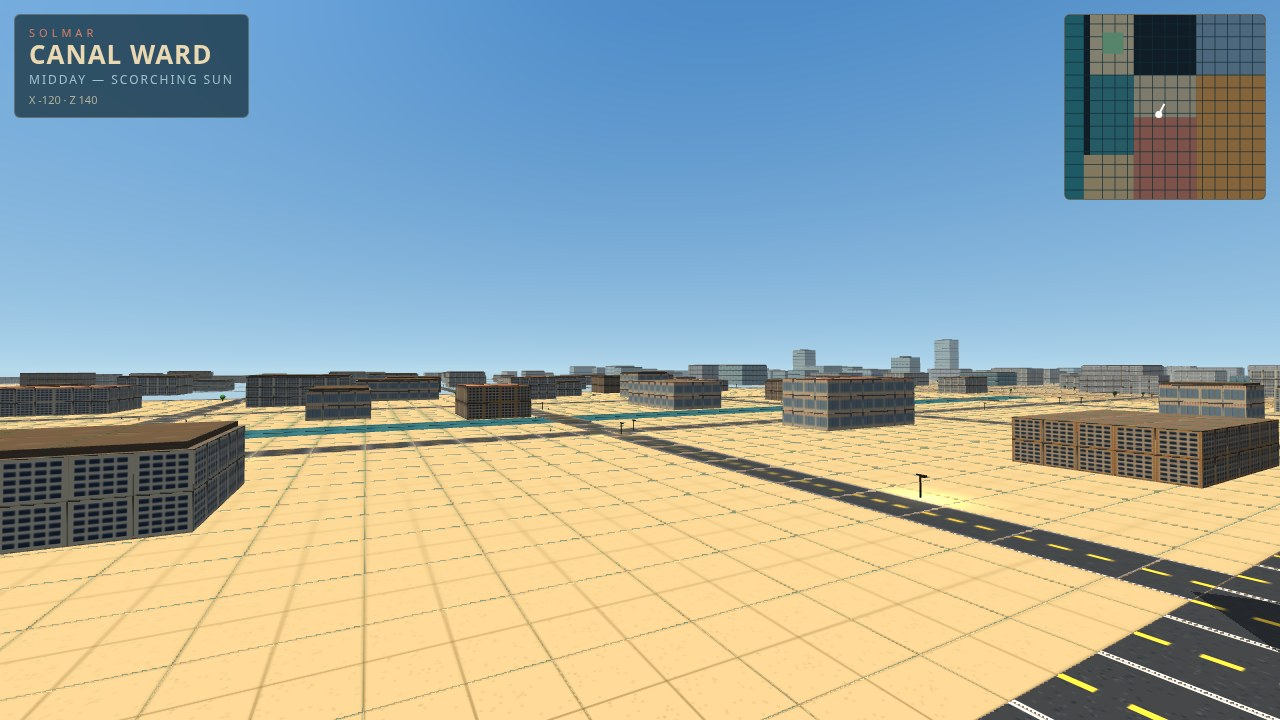
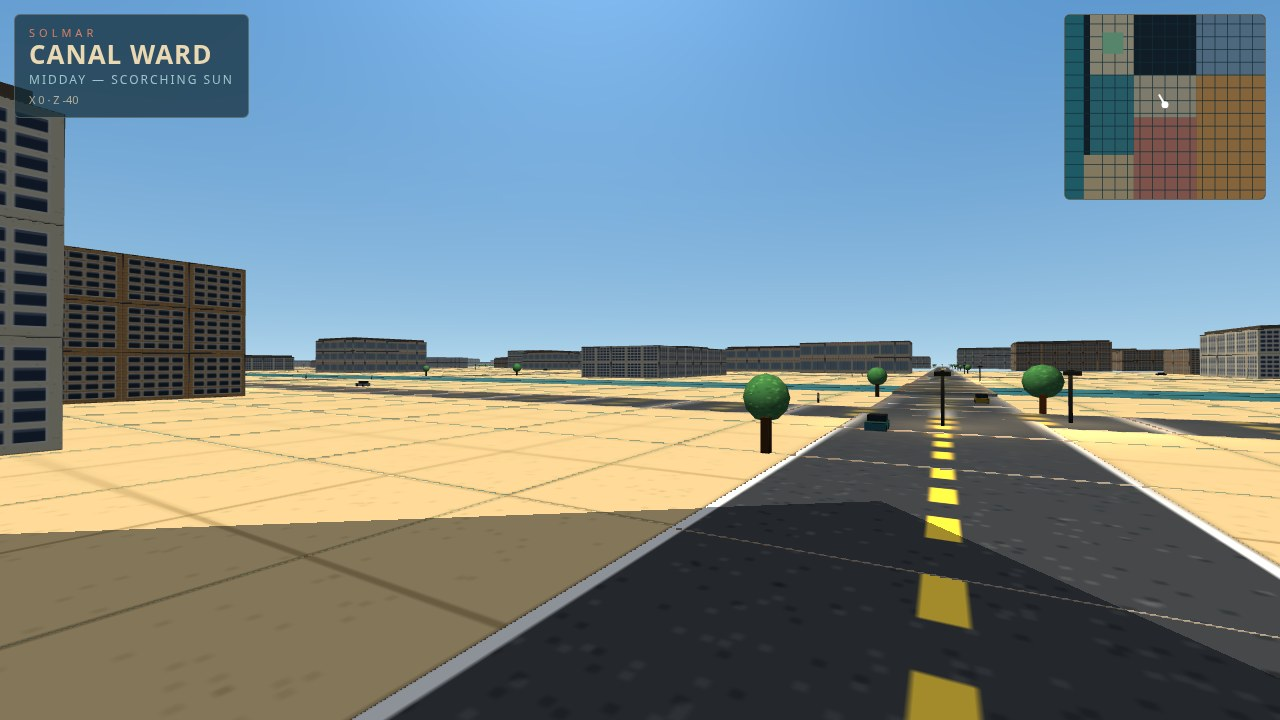
Stage A fix: denser foregrounds, re-staged shots

diff --git a/game/src/city.js b/game/src/city.js
@@ -278,6 +278,56 @@ export function buildCity(seed) {
     parkedCars.push({ x, z, angle: vertical ? 0 : Math.PI / 2, color: rng.pick(CAR_COLORS) });
   }
 
+  // --- Shot dressing (deterministic, no RNG): parked cars, palms, benches
+  // and a lifeguard tower where the three screenshot cameras look, so no
+  // frame is a bare ground plane. Every value below is fixed, so the seeded
+  // layout above is untouched. Props stay clear of building footprints:
+  // the road strip is x -10..10, buildings start at x >= 14 or x <= -14
+  // off it, and nothing is built west of x -1440.
+  function plantTreeFixed(x, z, s) {
+    mesh.addBox(x, 1.4, z, 0.7, 2.8, 0.7, { tile: TILE.wood, color: [0.55, 0.4, 0.25], gloss: 0 });
+    mesh.addSphere(x, 3.6 + s * 0.4, z, s, { color: [0.85, 0.95, 0.85], gloss: 0 });
+    treeCount += 1;
+  }
+  function plantPalm(x, z) {
+    // A tall thin trunk and a flat crown, so the beach reads as palms.
+    mesh.addBox(x, 3.5, z, 0.5, 7, 0.5, { tile: TILE.wood, color: [0.6, 0.48, 0.32], gloss: 0 });
+    mesh.addSphere(x, 7.4, z, 2.4, { color: [0.45, 0.75, 0.4], gloss: 0 });
+    treeCount += 1;
+  }
+  function addBench(x, z) {
+    mesh.addBox(x, 0.5, z, 4, 1, 1.2, { tile: TILE.wood, color: [0.6, 0.45, 0.3], gloss: 0.1 });
+  }
+  // Parked cars on the Canal Ward road the day camera looks down.
+  for (const [x, z, ci] of [[6, 10, 0], [-6, -100, 1], [6, -150, 4], [-6, 30, 2]]) {
+    parkedCars.push({ x, z, angle: 0, color: CAR_COLORS[ci] });
+  }
+  // Parked cars on the harbour road the night camera looks down.
+  for (const [x, z, ci] of [[-1262, 40, 3], [-1262, -60, 5], [-1262, 140, 6]]) {
+    parkedCars.push({ x, z, angle: Math.PI / 2, color: CAR_COLORS[ci] });
+  }
+  // Street trees along the day camera's road, just off the tarmac.
+  for (const [x, z, s] of [[12, -10, 2.2], [-12, -80, 1.9], [12, -130, 2.4], [-12, -160, 2.0]]) {
+    plantTreeFixed(x, z, s);
+  }
+  // Palms on the sand for the sunset camera (kept off the sun's line, so
+  // none of them covers the disc) and along the beach in general.
+  for (const [x, z] of [[-1560, 1180], [-1555, 1200], [-1500, 1000], [-1500, 1300], [-1500, 1600]]) {
+    plantPalm(x, z);
+  }
+  // Benches on the sand, facing the sea.
+  for (const [x, z] of [[-1550, 1160], [-1505, 1000], [-1505, 1300], [-1505, 1550]]) addBench(x, z);
+  // Palms and benches along the marina promenade for the night camera.
+  for (const z of [100, 300]) plantPalm(-1432, z);
+  for (const z of [150, 250, 350, 450]) addBench(-1438, z);
+  // A lifeguard tower on the sand, at the sunset frame's right edge.
+  for (const [lx, lz] of [[-1556, 1129], [-1554, 1129], [-1556, 1131], [-1554, 1131]]) {
+    mesh.addBox(lx, 1.5, lz, 0.4, 3, 0.4, { tile: TILE.wood, color: [0.6, 0.45, 0.3], gloss: 0.1 });
+  }
+  mesh.addBox(-1555, 3.4, 1130, 5, 0.6, 4, { tile: TILE.wood, color: [0.65, 0.5, 0.35], gloss: 0.1 });
+  mesh.addBox(-1555, 4.6, 1130, 4, 1.8, 3, { tile: TILE.whiteWall, color: [0.95, 0.9, 0.8], gloss: 0.2 });
+  mesh.addBox(-1555, 5.8, 1130, 5, 0.4, 4, { tile: TILE.awning, color: [1, 1, 1], gloss: 0.1 });
+
   // --- Pedestrian loops: rectangles around a few blocks.
   const loopBlocks = [
     [-480, -360, -240, -120], [-240, -360, 0, -120], [0, -360, 240, -120],

diff --git a/game/src/shots.js b/game/src/shots.js
@@ -1,23 +1,32 @@
 // The screenshot scenes behind ?shot=day|sunset|night. Each one stages a fixed
 // cinematic camera in the real game — the same world, the same light, no
 // special-case rendering — so the frame is what the game really looks like
-// from that spot, and the same seed always gives the same frame.
+// from that spot, and the same seed always gives the same frame. Every camera
+// sits at street or promenade level, close to the city, so the frame shows
+// buildings, streets, trees, parked cars or people in the foreground — never
+// a bare ground plane filling the frame.
 
 export const SHOTS = {
-  // Low over Canal Ward, looking north-east across the canal to the Glasspoint towers.
+  // Street level on the Canal Ward road, looking north-west down the road
+  // across the canal, brick facades on the left, the bridge and the canal
+  // ahead, parked cars and street trees along the road.
   day: {
     preset: 'day',
-    camera: { pos: [-120, 35, 140], target: [300, 50, -650] },
+    camera: { pos: [0, 7, -40], target: [-200, 10, -380] },
   },
-  // On the beach, looking west-south-west over the sea into the setting sun.
+  // On the beach at Sunstrand, close to the water, looking west-south-west
+  // over the sea into the setting sun, palms and the lifeguard tower at
+  // the frame edges and a bench in the foreground.
   sunset: {
     preset: 'sunset',
-    camera: { pos: [-1500, 12, 400], target: [-2300, 6, 550] },
+    camera: { pos: [-1520, 8, 1150], target: [-2290, 12, 1290] },
   },
-  // On the beach promenade, looking north along the lamps toward the harbour.
+  // On the marina promenade, just south of the harbour, looking north along
+  // the lamps toward the boats and docks, Pearl Marina's lit windows to
+  // the right and the sea to the left.
   night: {
     preset: 'night',
-    camera: { pos: [-1500, 10, 600], target: [-1480, 8, -400] },
+    camera: { pos: [-1440, 6, 300], target: [-1440, 6, -350] },
   },
 };
 

diff --git a/checks/report.md b/checks/report.md
@@ -83,3 +83,57 @@ teal #398e99, ink #142d38, leaf #56856b.
   come in later stages.
 - The title screen is a simple overlay; the full title-screen art is a
   Stage F item.
+
+## Stage A fix pass — denser foregrounds, re-staged shots
+
+The parent viewed the three screenshots and found the cameras looked at
+empty ground: the day camera was high and far, the sunset and night
+cameras stood on bare sand/promenade. This pass fixed only the shot
+staging and the foreground density — no later-stage systems.
+
+- `game/src/shots.js` — all three cameras re-staged to street/promenade
+  level, close to the city. Day: on the Canal Ward road at (0, 7, -40),
+  looking north-west down the road across the canal. Sunset: on the beach
+  at (-1520, 8, 1150), close to the water, looking west-south-west into
+  the sun. Night: on the marina promenade at (-1440, 6, 300), just south
+  of the harbour, looking north along the lamps.
+- `game/src/city.js` — deterministic shot dressing, all fixed values, no
+  RNG calls, added after the parked-car loop so the seeded layout is
+  untouched: 4 parked cars on the day camera's road, 3 on the harbour
+  road, 4 street trees along the day road, 5 palms on the sand (two in
+  the sunset frame's wedge, none on the sun's line), 4 benches on the
+  sand, 2 palms + 4 benches on the marina promenade, and a lifeguard
+  tower at the sunset frame's right edge. Props stay clear of building
+  footprints (road strip x -10..10, buildings from x >= 14, nothing
+  built west of x -1440).
+- Two rounds of re-capture and viewing: round 1 fixed the empty-ground
+  problem but the day camera looked straight north down the road, so the
+  near buildings fell outside the frame and the canal was a thin band at
+  the horizon; round 2 angled the day camera north-west, which puts brick
+  facades on the left, the road with parked cars and trees on the right,
+  and the canal crossing the frame.
+
+## Verification (fix pass, real headless browser)
+
+- Server: `node serve.ts --port 8081`; headless shell
+  (chromium_headless_shell-1255, SwiftShader WebGL) with
+  `--virtual-time-budget=15000`, one run per shot (script
+  `/tmp/palkon-shots.sh`, written fresh for this pass):
+  - day, sunset, night: `<title>READY</title>`, `#errors` empty,
+    **0 console errors, 0 page errors**.
+- Screenshots re-captured at 1280x720 and viewed:
+  - `screenshots/1-day.jpg` (112,415 B) — Canal Ward at midday: tall
+    brick building with windows at the left edge, road receding right
+    with parked cars and street trees, the canal as a teal band across
+    the frame, far-bank buildings and Glasspoint towers at the right.
+  - `screenshots/2-sunset.jpg` (72,071 B) — the beach at sunset: sun
+    disc over a wide sea glint, two palms at the left edge, the
+    lifeguard tower at the right edge, a bench in the foreground sand.
+  - `screenshots/3-night.jpg` (73,916 B) — the marina promenade at
+    night: a lamp with its warm light pool in the left foreground,
+    boats and docks ahead, Pearl Marina buildings with lit windows on
+    the right, the sea on the left, stars above.
+  All three JPEGs are under the 256 KiB limit.
+- Packaging: `MAKEFUN_OUTPUT_DIR=/tmp/palkon-out node main.ts` (Node
+  v24.22.1, exit 0) produced `game/` (9 source files), `screenshots/`
+  (the 3 JPEGs) and `dossier.json` (schema `makefun/dossier/v1`).
